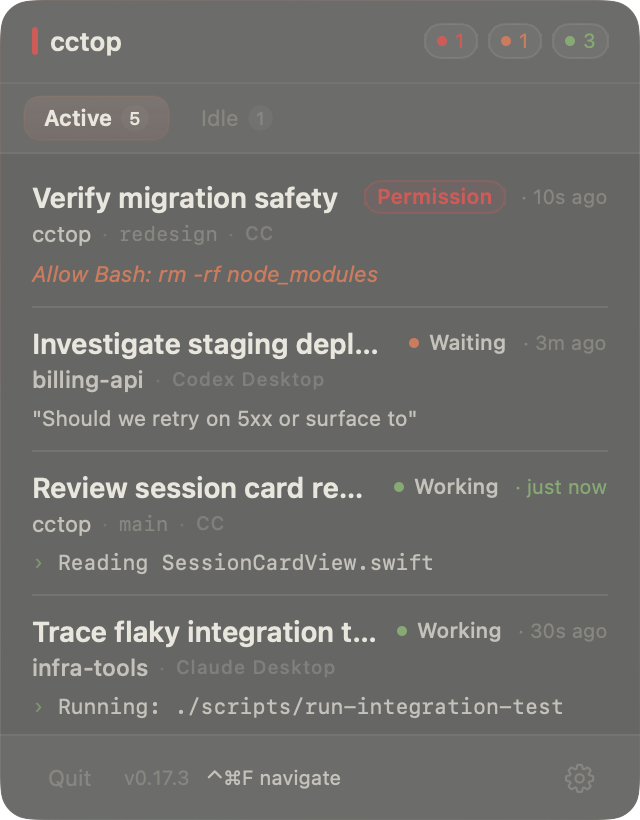
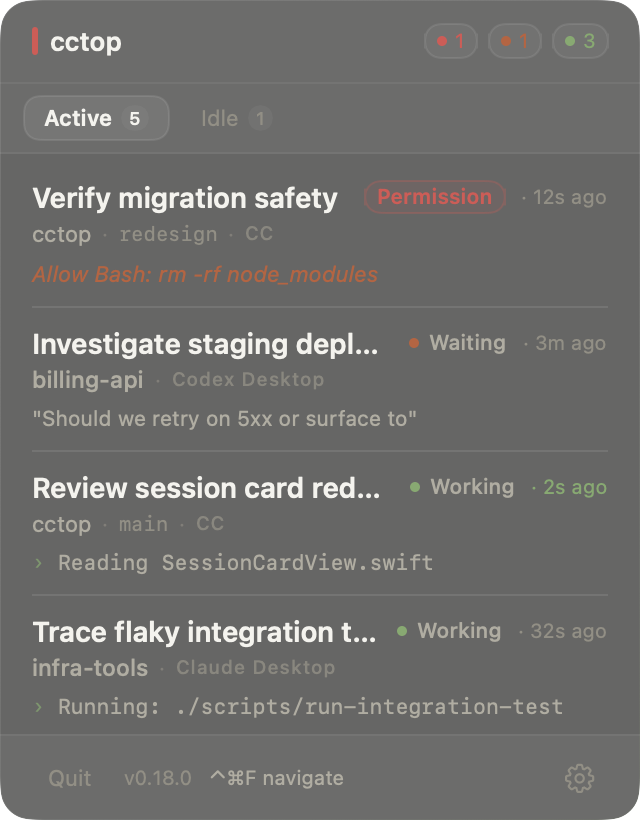
Update theme docs and screenshots

diff --git a/site/index.html b/site/index.html
@@ -364,7 +364,7 @@
       <div class="wrap">
         <div class="section-header"><div><div class="eyebrow">Themes</div><h2>Four palettes, light and dark.</h2></div><p class="section-sub">Color schemes inspired by developer tools. Switch in Settings, then choose light, dark, or system mode.</p></div>
         <div class="theme-grid">
-          <div class="theme-card"><img src="https://raw.githubusercontent.com/st0012/cctop/master/docs/theme-claude-dark.png" alt="Claude dark theme screenshot" loading="lazy" width="640" height="820" decoding="async" /><div class="name"><span class="swatch" style="background:#d97757"></span> Claude</div></div>
+          <div class="theme-card"><img src="https://raw.githubusercontent.com/st0012/cctop/master/docs/theme-claude-dark.png" alt="Claude dark theme screenshot" loading="lazy" width="640" height="820" decoding="async" /><div class="name"><span class="swatch" style="background:#c15f3c"></span> Claude</div></div>
           <div class="theme-card"><img src="https://raw.githubusercontent.com/st0012/cctop/master/docs/theme-tokyoNight-dark.png" alt="Tokyo Night dark theme screenshot" loading="lazy" width="640" height="820" decoding="async" /><div class="name"><span class="swatch" style="background:#7aa2f7"></span> Tokyo Night</div></div>
           <div class="theme-card"><img src="https://raw.githubusercontent.com/st0012/cctop/master/docs/theme-gruvbox-dark.png" alt="Gruvbox dark theme screenshot" loading="lazy" width="640" height="820" decoding="async" /><div class="name"><span class="swatch" style="background:#b8bb26"></span> Gruvbox</div></div>
           <div class="theme-card"><img src="https://raw.githubusercontent.com/st0012/cctop/master/docs/theme-nord-dark.png" alt="Nord dark theme screenshot" loading="lazy" width="640" height="820" decoding="async" /><div class="name"><span class="swatch" style="background:#88c0d0"></span> Nord</div></div>

diff --git a/DESIGN.md b/DESIGN.md
@@ -85,7 +85,7 @@ variants. The Swift app exposes them via the semantic token API in
 | Panel material     | `panelMaterialOverlay`                                     | Subtle material wash over the panel base         |
 | Panel chrome bg    | `panelControlBackground`                                   | Header, tabs, footer, small controls             |
 | Panel chrome border| `panelControlBorder`                                       | Hairline separators in panel chrome              |
-| Panel selection    | `panelSelectionBackground`                                 | Rounded row/tab/gear hover selection             |
+| Panel selection    | `panelSelectionBackground` + `panelAccentBorder`           | Flat rounded row/tab/control selection           |
 | Grouped content    | `groupedContentBackground`                                 | Sunk background for secondary grouped views      |
 | Grouped row        | `groupedRowBackground`                                     | Settings grouped row surface                     |
 | Grouped row border | `groupedRowBorder`                                         | Group outline and inner separators               |
@@ -104,16 +104,18 @@ working session.
 
 | Role               | Dark      | Light     |
 |--------------------|-----------|-----------|
-| accent             | `#D97757` | `#D97757` |
+| accent             | `#C15F3C` | `#C15F3C` |
 | statusPermission   | `#DD5353` | `#DD5353` |
-| statusAttention    | `#D97757` | `#D97757` |
+| statusAttention    | `#C15F3C` | `#C15F3C` |
 | statusGreen        | `#7EAA6E` | `#4A8238` |
-| textPrimary        | `#E8E6DC` | `#141413` |
-| textSecondary      | `#C4C2B9` | `#30302E` |
-| textMuted          | `#87867F` | `#76746D` |
-| textDimmed         | `#87867F` | `#76746D` |
-| panelBackground    | `#262624` | `#E8E6DC` |
-| statusIdle         | `#87867F` | `#87867F` |
+| textPrimary        | `#F4F3EE` | `#141413` |
+| textSecondary      | `#B1ADA1` | `#30302E` |
+| textMuted          | `#938F84` | `#68645D` |
+| textDimmed         | `#938F84` | `#68645D` |
+| panelBackground    | `#262624` | `#F4F3EE` |
+| statusIdle         | `#B1ADA1` | `#68645D` |
+| panelSelection     | `#333230` | `#ECEAE3` |
+| panelAccentBorder  | `#4B4843` | `#D0CCC1` |
 | agentBadge         | `#A256C8` | `#7A3580` |
 | opencodeBadge      | `#5C8AB8` | `#2D5A82` |
 | piBadge            | `#6EAEA8` | `#346B66` |
@@ -307,7 +309,7 @@ glance at it from peripheral vision.
 | **Row 2 — meta (Desktop)**| `desktopProjectName · source`. Folder + branch are dropped because Desktop sessions often run in auto-generated worktree dirs (`focused-dirac-1baeb9`); project name is 11.5 px medium `textSecondary`, source is quiet metadata. |
 | **Row 3 — working**       | Monospace command stripe with `›` prompt (`statusGreen` @ 0.7) + `Session.contextLine`; no blinking caret. |
 | **Row 3 — waiting**       | 10.5 px `textSecondary` note: `notificationMessage ?? contextLine ?? "Waiting for input"`. Permission notes remain 11 px italic `statusAttention`. |
-| Selected / hover          | `cardSelectionStyle` uses `panelSelectionBackground`, `AppChrome.selectionCornerRadius`, and a 6 px horizontal inset. No shadow, no left accent bar. |
+| Selected / hover          | `cardSelectionStyle` uses the shared flat selection surface, `AppChrome.selectionCornerRadius`, and a 6 px horizontal inset. No left accent bar. |
 | Source badge visibility   | Shown only when `Set(sessions.map(\.agentBadge)).count > 1` (keyed on `agentBadge`, not `sourceLabel`, so CC + Claude Desktop counts as multiple sources) |
 
 #### Source badge (`SourceBadgeView.swift`) — six variants
@@ -367,7 +369,7 @@ Always black, regardless of theme — it's OS chrome that meets the camera notch
 | Label            | 10 px medium                                         |
 | Inner padding    | 8 px horizontal · 3 px vertical                      |
 | Outer fill       | `panelControlBackground` with `panelControlBorder` hairline |
-| Active fill      | `panelSelectionBackground`                           |
+| Active fill      | Shared flat selection surface                        |
 | Hover fill       | `panelControlBackground`                             |
 | Active text      | `segmentActiveText` (= `textPrimary`)                |
 | Inactive text    | `segmentText` (= `textMuted`)                        |
@@ -385,9 +387,10 @@ Always black, regardless of theme — it's OS chrome that meets the camera notch
 
 ### Tab button (Active / Idle / Recent)
 
-Selected tab uses `panelSelectionBackground`; hover uses
-`panelControlBackground`. Counts render in a small neutral chrome badge so the
-tab label stays calm and readable. 6 px horizontal padding between tabs.
+Selected tab uses the shared flat selection surface; hover uses
+`panelControlBackground`. Counts render as plain text inside the selected
+capsule so the tab label stays calm and readable. 6 px horizontal padding
+between tabs.
 
 ### Settings grouped list
 
@@ -764,7 +767,7 @@ cctop-consistent UI.
 
 | Theme        | Dark accent | Dark bg   | Dark fg   | Light accent | Light bg  | Light fg  |
 |--------------|-------------|-----------|-----------|--------------|-----------|-----------|
-| Claude       | `#D97757`   | `#262624` | `#E8E6DC` | `#D97757`    | `#E8E6DC` | `#141413` |
+| Claude       | `#C15F3C`   | `#262624` | `#F4F3EE` | `#C15F3C`    | `#F4F3EE` | `#141413` |
 | Tokyo Night  | `#F7768E`   | `#1A1B26` | `#C0CAF5` | `#2959AA`    | `#E6E7ED` | `#343B59` |
 | Gruvbox      | `#FE8019`   | `#282828` | `#EBDBB2` | `#AF3A03`    | `#FBF1C7` | `#3C3836` |
 | Nord         | `#BF616A`   | `#2E3440` | `#ECEFF4` | `#BF616A`    | `#ECEFF4` | `#2E3440` |
